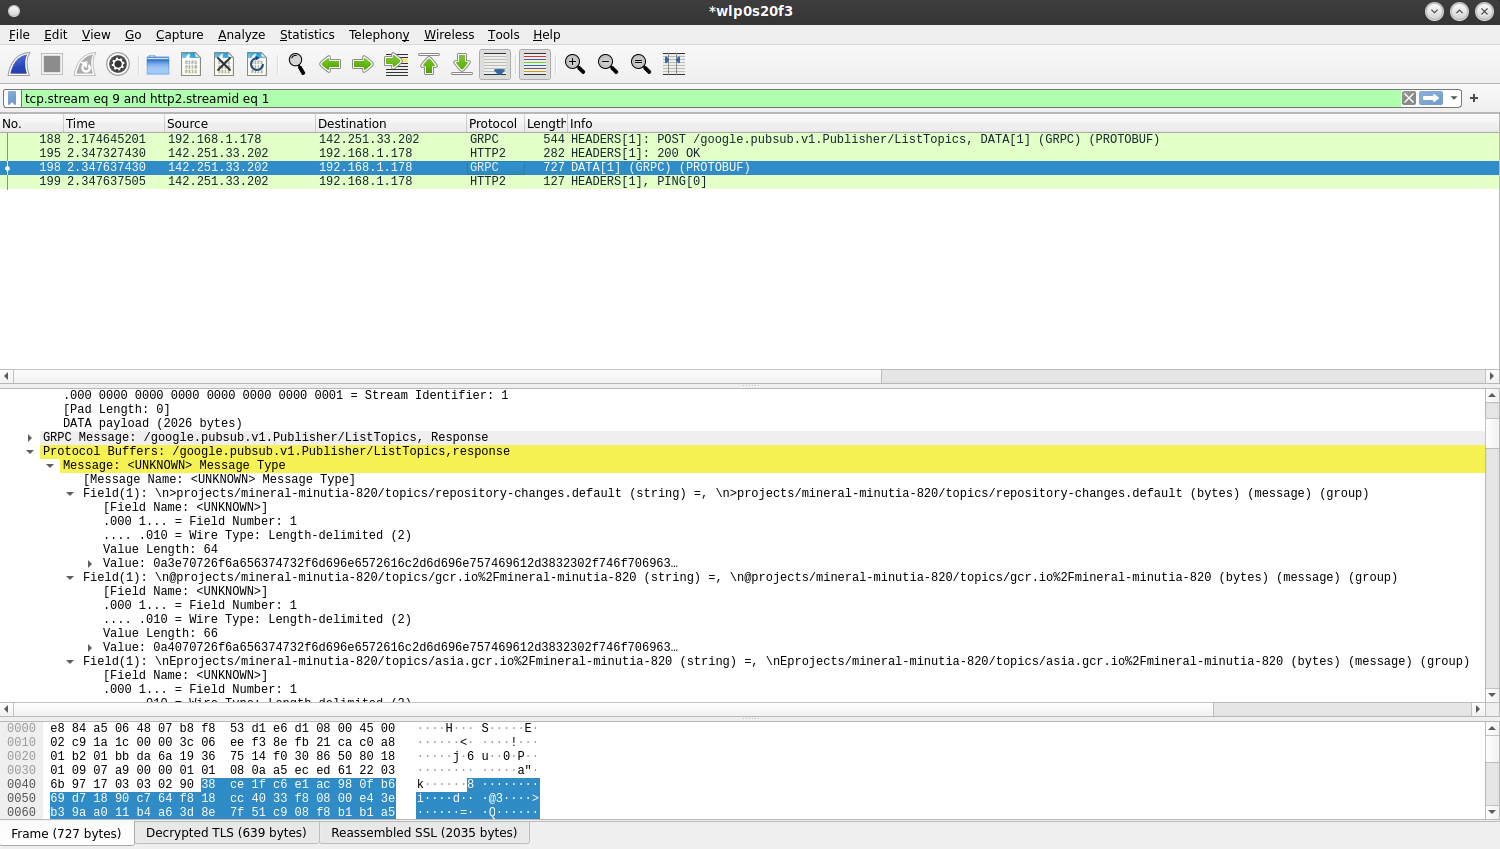
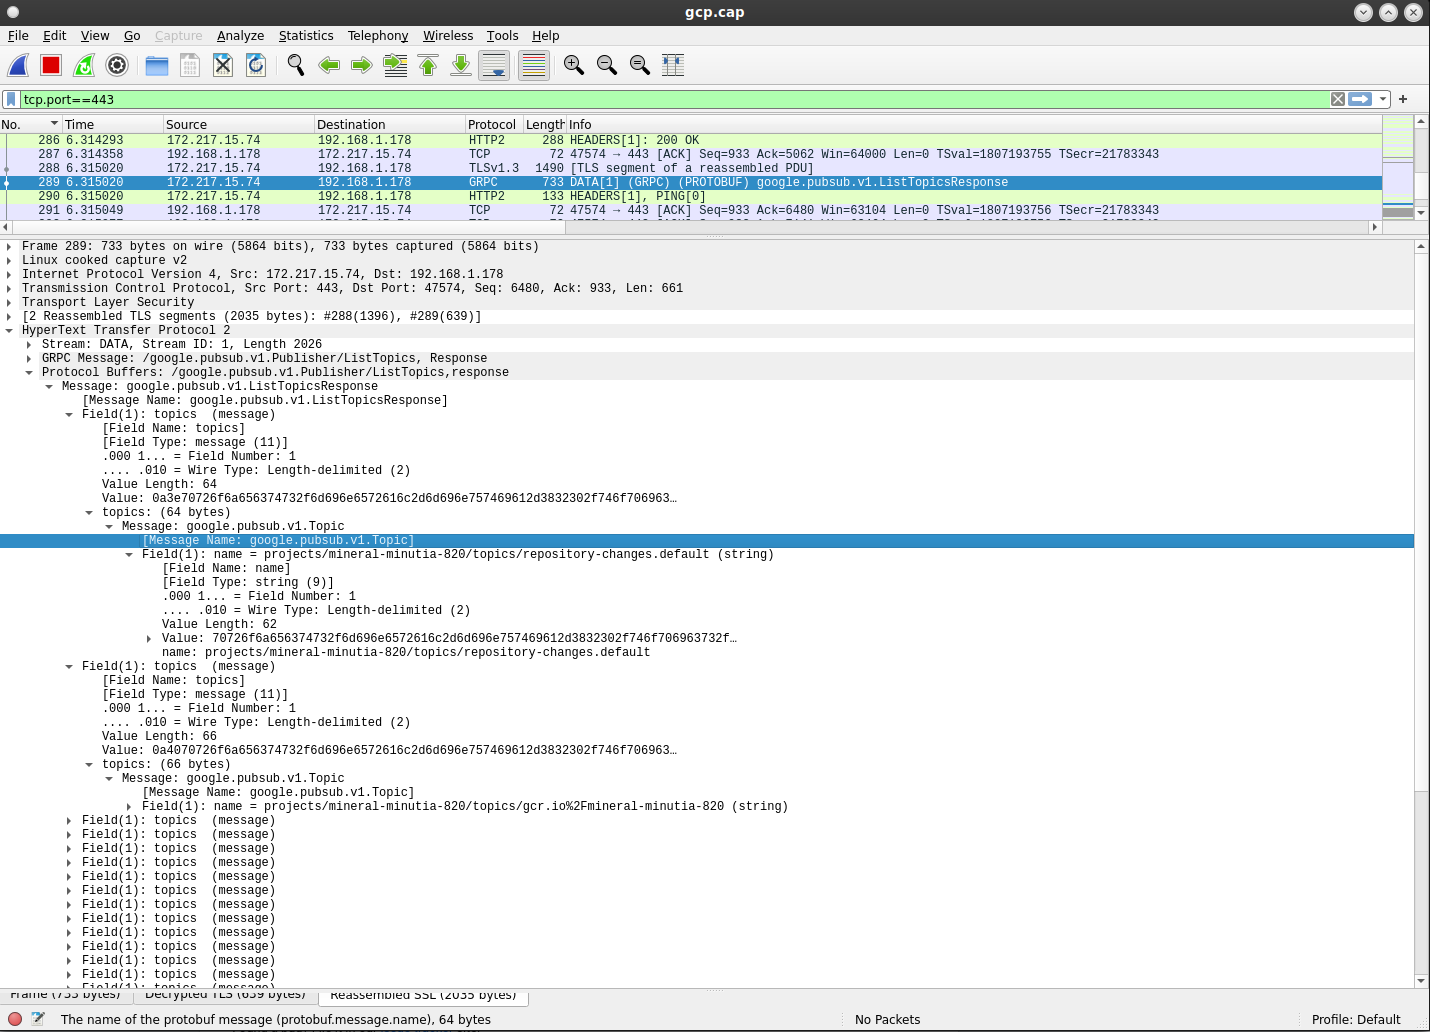
update pubsub

Changed region(s): [[0.0, 0.0, 1.0, 1.0], [0.4923, 0.6737, 0.9231, 0.7044]]

diff --git a/README.md b/README.md
@@ -12,9 +12,8 @@ Since i earlier worked on similar stuff in other repos like
 * [OpenSSL 3.0.0 docker with TLS trace enabled (enable-ssl-trace) and FIPS](https://github.com/salrashid123/openssl_trace#tls-decryption-with-wireshark)
 
 
-i figured i'd give it a shot....fast forward, while i could decrypt the pubsub TLS traffic, wasn't able to get the correct `.proto` Google Cloud uses to properly parse inside wireshark's dissectors.
+i figured i'd give it a shot..it took a little bit to get going since i had to decode TLS and ultimately upgrade wireshark (per [wireshark issue#17744](https://gitlab.com/wireshark/wireshark/-/issues/17744))).
 
-I'm not sure what the issue with wireshark is but i suspect its a mismatch of the proto version or annotations google added in.
 
 Anyway, what this repo does show is a very simple go-based client/server gRPC system that does unary, client streaming, server streaming and full bidi.  All along the tls traffic is seen by wireshark, decrypted and after that, parsed using the `.proto` files
 
@@ -23,7 +22,7 @@ Lets get started
 
 ## Sample gRPC Client/Server
 
-First thing is to setup the client server and wireshark.
+First thing is to setup the client server and wireshark (plase note, use wireshark `3.6.0+` 
 
 For wireshark, we will save the TLS encryption keys to `/tmp/keylog.log`.  This file contains the TLS keys in  [NSS Key Log Format](https://developer.mozilla.org/en-US/docs/Mozilla/Projects/NSS/Key_Log_Format) which golang can output and wireshark can consume.
 
@@ -32,7 +31,14 @@ First tell wireshark where to find it
 ![images/wireshark_keylog.png](images/wireshark_keylog.png)
 
 
-Now we need to tell whreshark how to decode the proto after TLS is done.  For that, we will configure wireshark to look at `src/echo/echo.proto`
+Now we need to tell wireshark how to decode the proto after TLS is done.  For that, we will configure wireshark to look at `src/echo/echo.proto`. 
+
+You'll also want to [install protoc core](https://grpc.io/docs/protoc-installation/)
+
+in my case, it was unzipped to `/usr/local/include/` (i.,e the `.proto` are under `/usr/local/include/google/protobuf/`.
+
+Then specify them in the configurations
+
 
 ![images/wireshark_proto.png](images/wireshark_proto.png)
 
@@ -103,18 +109,28 @@ I've also left a sample keylog and wireshark file for you to load and test decod
 
 Ok, so now we're back to what i really wanted to do...decode PubSub. 
 
-As mentioned, i was unsuccessful (partially)...i could decrypt but not decode
 
-I think it should be something like this
 
+first install `protoc` if you haven't already
 
 ```bash
+# https://grpc.io/docs/protoc-installation/
+# in my case, it was unzipped to /usr/local/include/google/protobuf/
+
 # first get all the protos
 git clone https://github.com/googleapis/googleapis.git
-git clone https://github.com/protocolbuffers/protobuf.git
 ```
 
-Then tell wireshark to load the proto files  << this is the point where i'm stuck.  Wireshark keeps complaining about annotations that appear as syntax errors..
+Then tell wireshark to load the proto files:  (note, the spot where `googleapis/` folder is will be different)
+
+```
+$ more /home/srashid/.config/wireshark/protobuf_search_paths
+# This file is automatically generated, DO NOT MODIFY.
+"/usr/local/include","TRUE"
+"/home/srashid/Desktop/grpc_sslkeylog/googleapis","TRUE"
+```
+
+![images/pubsub_search.png](images/pubsub_search.png)
 
 Anyway, if you ran the grpc client in this repo, and prior to that set the `SSLKEYLOGFILE` parameter, you should be able to see the pubsub traffic if you use the following
 filter in wireshark:
@@ -126,7 +142,7 @@ tcp.port == 443 and tls.handshake.extensions_server_name=="pubsub.googleapis.com
 However, even if you cant' see the traffic, you can still see the bytes...presumably, you can dump the `DATA` to a file from wireshark, then use go to read each payload as protoMessage
 
 
-![images/pubsub.png](images/pubsub.png)
+![images/grpc_pubsub.png](images/grpc_pubsub.png)
 
 ---
 
